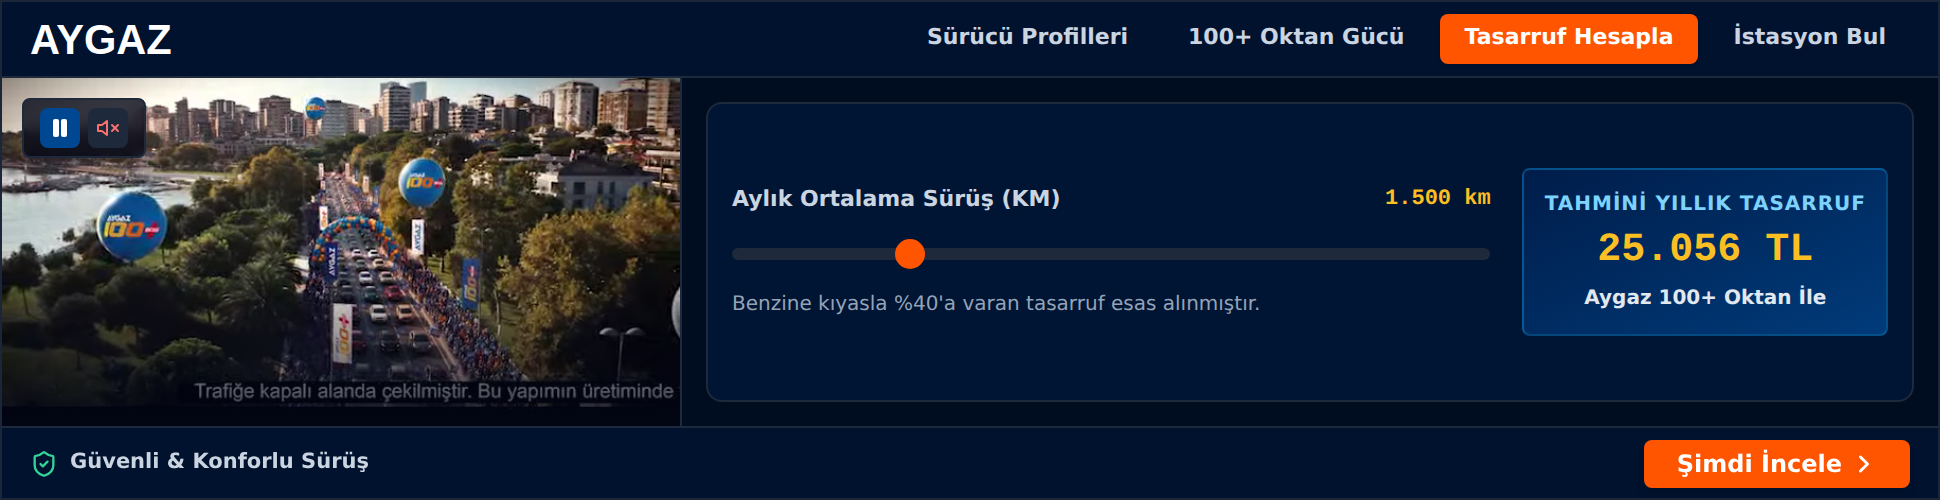
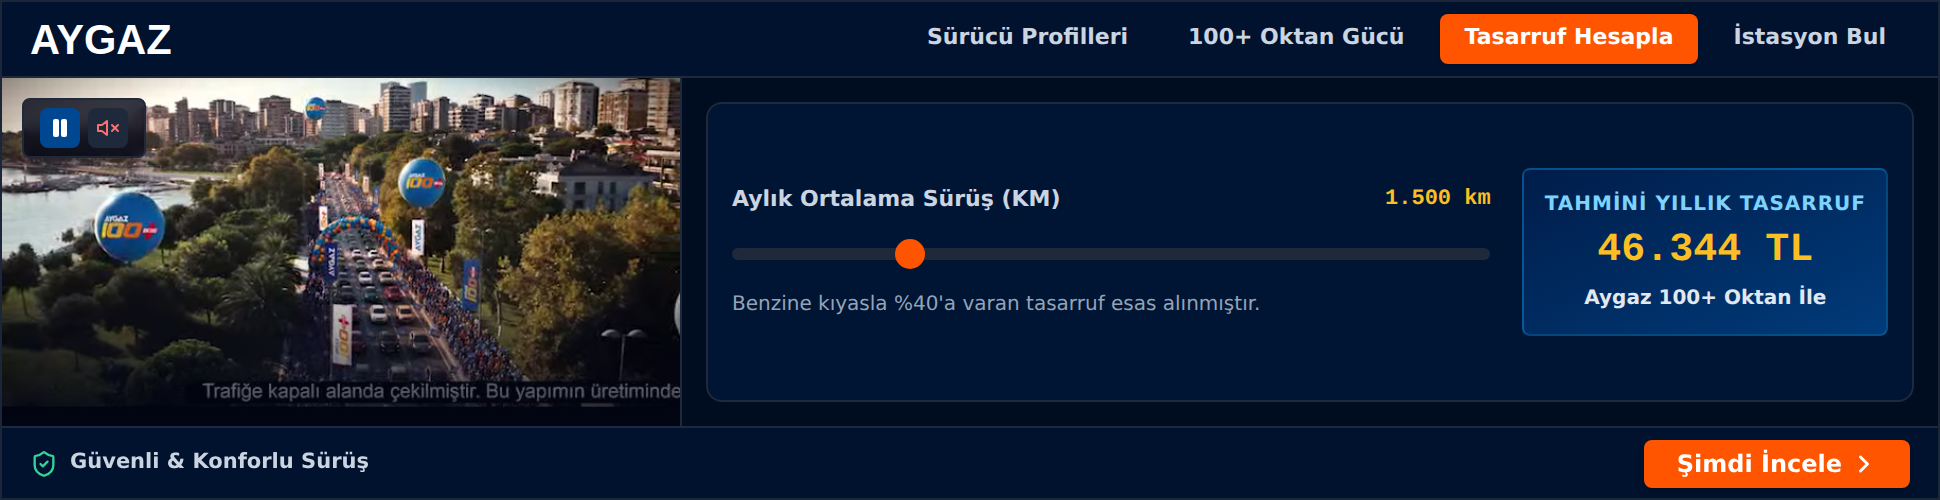
Aygaz masthead: Tasarruf Hesapla güncel fiyatlarla (benzin 80,46 / otogaz 37,39 TL/L)
- Gerçek fiyat farkı hesaplanır, 'Benzine kıyasla %40'a varan' iddiasıyla tutarlılık için
  benzin maliyetinin %40'ı ile sınırlanır (bugünkü fiyatlarla fark %46,6, gösterilen %40)
- 1.500 km/ay -> 46.344 TL/yıl
- Paketler yeniden derlendi

Claude-Session: https://claude.ai/code/session_01S8prQN2BxftNy9raE6umnc

diff --git a/aygaz/Aygaz3-sesli.html b/aygaz/Aygaz3-sesli.html
@@ -257,11 +257,13 @@
     };
     const formatNumber = (n) => n.toLocaleString('tr-TR'); // 80.000 / 1.900
 
-    // Tasarruf Hesapla sekmesi varsayımları
+    // Tasarruf Hesapla sekmesi girdileri
     const CALC = {
-      benzinLitreTL: 43.50,        // benzin litre fiyatı (TL) – varsayım
+      benzinLitreTL: 80.46,        // benzin litre fiyatı (TL) – 30.09.2026 güncel (müşteri)
+      otogazLitreTL: 37.39,        // otogaz litre fiyatı (TL) – 30.09.2026 güncel (müşteri)
       benzinTuketimL100km: 8.0,    // benzin tüketimi (L/100 km) – varsayım
-      tasarrufOrani: 0.40          // "Benzine kıyasla %40'a varan tasarruf"
+      otogazTuketimL100km: 9.2,    // otogaz tüketimi (L/100 km) – varsayım (+%15)
+      tasarrufOraniUst: 0.40       // "Benzine kıyasla %40'a varan tasarruf": gösterilen tasarrufun üst sınırı
     };
 
     const OKTAN_BENEFITS = [
@@ -428,10 +430,11 @@
         setIsMuted(nextMuted);
       };
 
-      // Tasarruf Hesapla: marka iddiası "Benzine kıyasla %40'a varan tasarruf" esas alınır.
-      // Tasarruf = aylık benzin maliyeti x %40. Benzin fiyatı ve tüketim varsayımdır (marka onayı önerilir).
+      // Tasarruf Hesapla: gerçek fiyat farkı (benzin - otogaz maliyeti) hesaplanır, marka iddiası
+      // "Benzine kıyasla %40'a varan tasarruf" ile tutarlı kalması için benzin maliyetinin %40'ı ile sınırlanır.
       const monthlyBenzinTL = (monthlyKm / 100) * CALC.benzinTuketimL100km * CALC.benzinLitreTL;
-      const monthlySavingsTL = Math.round(monthlyBenzinTL * CALC.tasarrufOrani);
+      const monthlyOtogazTL = (monthlyKm / 100) * CALC.otogazTuketimL100km * CALC.otogazLitreTL;
+      const monthlySavingsTL = Math.round(Math.min(monthlyBenzinTL - monthlyOtogazTL, monthlyBenzinTL * CALC.tasarrufOraniUst));
       const annualSavingsTL = monthlySavingsTL * 12;
 
       const getPersonaIcon = (iconName) => {

diff --git a/aygaz/Aygaz3.html b/aygaz/Aygaz3.html
@@ -256,11 +256,13 @@
     };
     const formatNumber = (n) => n.toLocaleString('tr-TR'); // 80.000 / 1.900
 
-    // Tasarruf Hesapla sekmesi varsayımları
+    // Tasarruf Hesapla sekmesi girdileri
     const CALC = {
-      benzinLitreTL: 43.50,        // benzin litre fiyatı (TL) – varsayım
+      benzinLitreTL: 80.46,        // benzin litre fiyatı (TL) – 30.09.2026 güncel (müşteri)
+      otogazLitreTL: 37.39,        // otogaz litre fiyatı (TL) – 30.09.2026 güncel (müşteri)
       benzinTuketimL100km: 8.0,    // benzin tüketimi (L/100 km) – varsayım
-      tasarrufOrani: 0.40          // "Benzine kıyasla %40'a varan tasarruf"
+      otogazTuketimL100km: 9.2,    // otogaz tüketimi (L/100 km) – varsayım (+%15)
+      tasarrufOraniUst: 0.40       // "Benzine kıyasla %40'a varan tasarruf": gösterilen tasarrufun üst sınırı
     };
 
     const OKTAN_BENEFITS = [
@@ -427,10 +429,11 @@
         setIsMuted(nextMuted);
       };
 
-      // Tasarruf Hesapla: marka iddiası "Benzine kıyasla %40'a varan tasarruf" esas alınır.
-      // Tasarruf = aylık benzin maliyeti x %40. Benzin fiyatı ve tüketim varsayımdır (marka onayı önerilir).
+      // Tasarruf Hesapla: gerçek fiyat farkı (benzin - otogaz maliyeti) hesaplanır, marka iddiası
+      // "Benzine kıyasla %40'a varan tasarruf" ile tutarlı kalması için benzin maliyetinin %40'ı ile sınırlanır.
       const monthlyBenzinTL = (monthlyKm / 100) * CALC.benzinTuketimL100km * CALC.benzinLitreTL;
-      const monthlySavingsTL = Math.round(monthlyBenzinTL * CALC.tasarrufOrani);
+      const monthlyOtogazTL = (monthlyKm / 100) * CALC.otogazTuketimL100km * CALC.otogazLitreTL;
+      const monthlySavingsTL = Math.round(Math.min(monthlyBenzinTL - monthlyOtogazTL, monthlyBenzinTL * CALC.tasarrufOraniUst));
       const annualSavingsTL = monthlySavingsTL * 12;
 
       const getPersonaIcon = (iconName) => {
